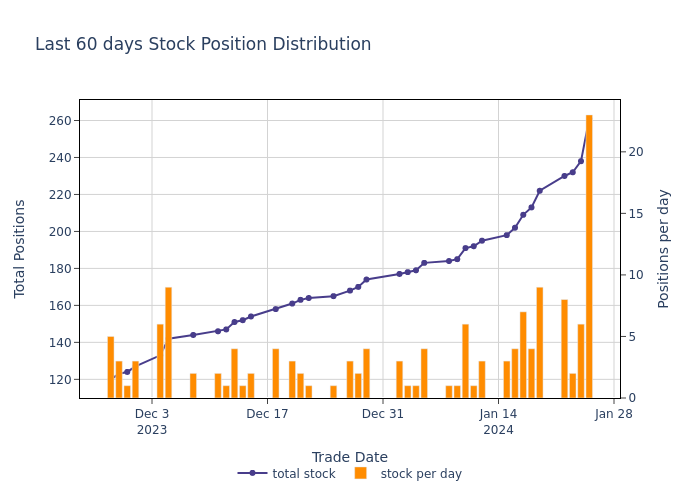
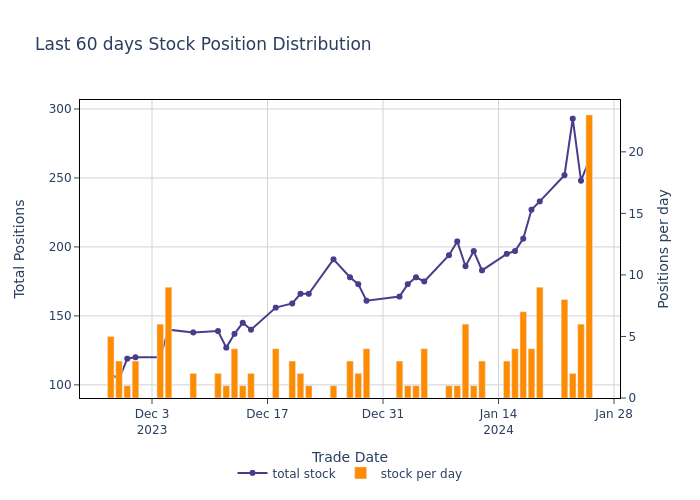
update

diff --git a/finance/utility/StockProposal.py b/finance/utility/StockProposal.py
@@ -293,16 +293,56 @@ class StockProposal:
 
             # recent 60 days
             sparkdata3 = spark.sql(
-                """select buy_date, cnt, total_cnt 
-                from ( 
-                    select buy_date, count(*) as cnt,
-                    SUM(COUNT(*)) OVER (ORDER BY buy_date ROWS BETWEEN UNBOUNDED PRECEDING AND CURRENT ROW) AS total_cnt
-                    from temp
-                    group by buy_date order by buy_date ) t
-                where buy_date >= date_add(current_date(), -60)
+                """ with tmp1 as (
+                        select buy_date, cnt, total_cnt 
+                        from ( 
+                            select buy_date, count(*) as cnt,
+                            SUM(COUNT(*)) OVER (ORDER BY buy_date ROWS BETWEEN UNBOUNDED PRECEDING AND CURRENT ROW) AS total_cnt
+                            from temp
+                            group by buy_date order by buy_date ) t
+                        where buy_date >= date_add(current_date(), -60)
+                ), tmp2 as (
+                            select symbol, date, trade_type, price, size, l_date, l_trade_type, l_price, l_size
+                            from (
+                                select symbol, date, trade_type, price, size
+                                    ,case when trade_type = 'sell' then lag(date) over (partition by symbol order by date)  
+                                            else lead(date) over (partition by symbol order by date) end as l_date
+                                    ,case when trade_type = 'sell' then lag(trade_type) over (partition by symbol order by date) 
+                                            else lead(trade_type) over (partition by symbol order by date) end as l_trade_type
+                                    ,case when trade_type = 'sell' then lag(price) over (partition by symbol order by date)
+                                            else lead(price) over (partition by symbol order by date) end as l_price
+                                    ,case when trade_type = 'sell' then lag(size) over (partition by symbol order by date) 
+                                            else lead(size) over (partition by symbol order by date) end as l_size
+                                from temp1
+                                where date >= date_add(current_date(), -365)
+                                order by symbol, date, trade_type
+                                ) t
+                            )
+                ,tmp3 as (
+                        select symbol,date,l_date
+                        from tmp2 
+                        where trade_type = 'sell'
+                        and date >= date_add(current_date(), -60) and l_date >= date_add(current_date(), -60)
+                        )
+                ,tmp4 as (
+                        select date, sum(cnt) as cnt
+                        from (
+                            select l_date as date,
+                            count(symbol) as cnt
+                            from tmp3
+                            group by l_date
+                            union all
+                            select date, (-1) * count(symbol) as cnt
+                            from tmp3
+                            group by date
+                        ) t group by date                        
+                ) select t1.buy_date as buy_date, 
+                         t1.cnt as cnt, 
+                         t1.total_cnt + t2.cnt as total_cnt
+                  from tmp1 t1 left join tmp4 t2
+                  on t1.buy_date = t2.date
                 """
             )
-            # sparkdata3.persist(storageLevel=StorageLevel.MEMORY_AND_DISK)
             dfdata3 = sparkdata3.toPandas()
             fig = go.Figure()
             fig.add_trace(

diff --git a/finance/test.py b/finance/test.py
@@ -44,8 +44,8 @@ def exec_btstrategy(date):
     """ 费率千分之一 """
     cerebro.broker.setcommission(commission=0.001, stocklike=True)
     """ 添加股票当日即历史数据 """
-    stocklist = ["SH603220", "SH601009", "SZ002807", "SH601169"]
-    # stocklist = TickerInfo(date, "cn").get_stock_list()
+    # stocklist = ["SH603220", "SH601009", "SZ002807", "SH601169"]
+    stocklist = TickerInfo(date, "cn").get_stock_list()
     list = TickerInfo(date, "cn").get_backtrader_data_feed_testonly(stocklist)
     """ 循环初始化数据进入cerebro """
     for h in list:
@@ -77,7 +77,7 @@ def exec_btstrategy(date):
 
 # 主程序入口
 if __name__ == "__main__":
-    trade_date = ToolKit("get_latest_trade_date").get_cn_latest_trade_date(1)
+    trade_date = ToolKit("get_latest_trade_date").get_cn_latest_trade_date(0)
 
     """ 非交易日程序终止运行 """
     if ToolKit("判断当天是否交易日").is_cn_trade_date(trade_date):
